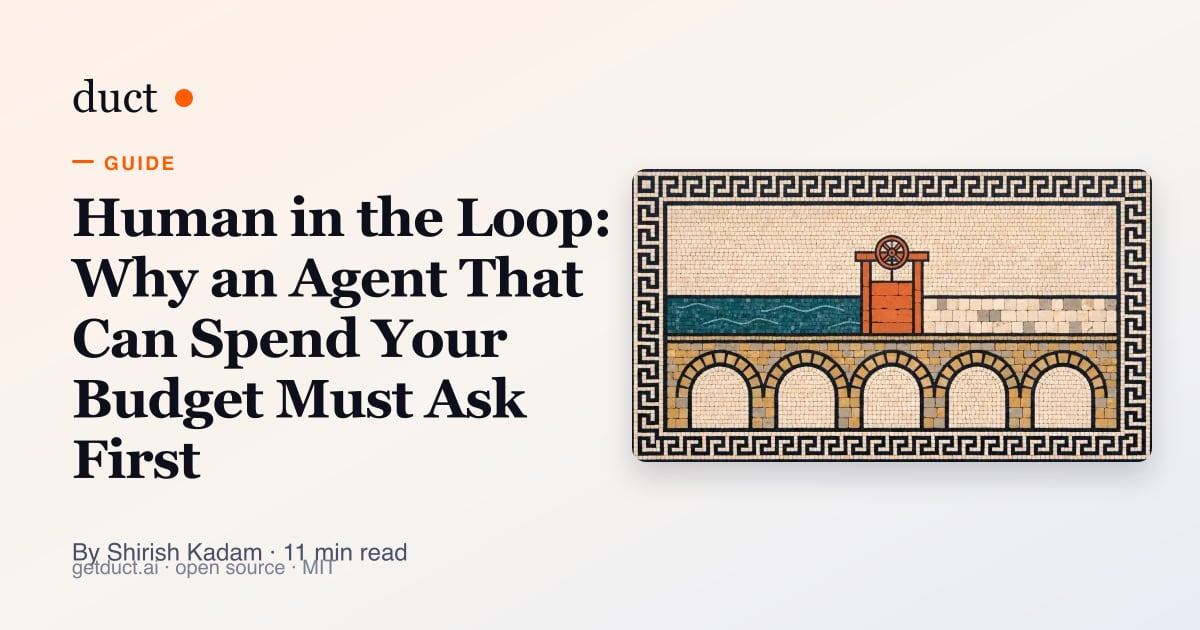
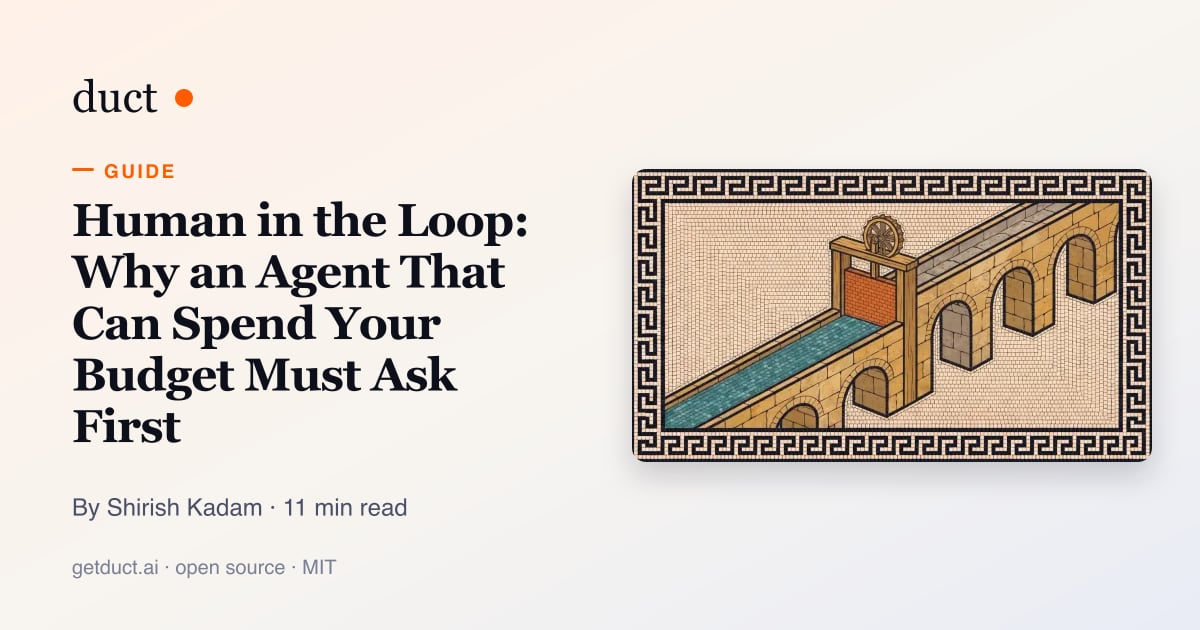
site(blog): guide 2, fixes from the visual pass
From a visual pass over every page, figure, card and hero in the cluster:

- the approval figure laid out again at the 19px label size every other figure uses; the Roll back box and the policy check text no longer run past their boxes
- a new hero that fills the field like the rest of the set (the first left the top 40% as empty ground); the alt text still describes it
- American spelling throughout
- the share card's byline clears the footer (the card generator fix on the base branch)

Refs #431

Changed region(s): [[0.0617, 0.2714, 0.9558, 0.9048], [0.0617, 0.2413, 0.1542, 0.3016]]

diff --git a/site/blog/human-in-the-loop-ai-agents.html b/site/blog/human-in-the-loop-ai-agents.html
@@ -426,7 +426,7 @@
 </nav>
 <h2 id="what-does-human-in-the-loop-mean-for-an-ai-agent">What does human in the loop mean for an AI agent?</h2>
 <p><strong>It means the agent stops at a defined point and a person decides before anything happens.</strong> The decision is a blocking step: the agent proposes, the run pauses, you approve, edit or reject, and only then does the action run. Gumloop's guide puts the everyday version plainly: "agents can pause at important moments and check in with you for approval before taking action" (<a href="https://instacart.gumloop.com/blog/human-in-the-loop">Gumloop, <em>Agents that know when to ask</em></a>).</p>
-<p>Two neighbours of the phrase matter, because vendors blur them:</p>
+<p>Two neighbors of the phrase matter, because vendors blur them:</p>
 <div class="post-table" role="region" aria-label="Table: Pattern, Who acts first, Your role, Fits" tabindex="0">
 <table>
 <thead><tr><th scope="col">Pattern</th><th scope="col">Who acts first</th><th scope="col">Your role</th><th scope="col">Fits</th></tr></thead>
@@ -470,7 +470,7 @@
 <table>
 <thead><tr><th scope="col">How the gate is built</th><th scope="col">What stops a wrong action</th><th scope="col">What happens when the model is wrong about risk</th><th scope="col">Where the human sits</th></tr></thead>
 <tbody>
-<tr><td>Told to ask (a line in the prompt)</td><td>the model's judgement</td><td>the action runs</td><td>in the loop, in theory</td></tr>
+<tr><td>Told to ask (a line in the prompt)</td><td>the model's judgment</td><td>the action runs</td><td>in the loop, in theory</td></tr>
 <tr><td>Cannot act (no tool exists to apply)</td><td>the absence of the tool</td><td>the change sits in "proposed" until a person clicks</td><td>in the loop, by construction</td></tr>
 <tr><td>Acts, then reports</td><td>nothing before the fact</td><td>the action runs; you see it in a log</td><td>on the loop</td></tr>
 </tbody>
@@ -478,7 +478,7 @@
 </div>
 <p>Models are not reliable judges of when to ask. HiL-Bench, built to test exactly this, found that "no frontier model recovers more than a fraction of its full-information performance when deciding whether to ask" (<a href="https://arxiv.org/abs/2604.09408">HiL-Bench, arXiv 2604.09408</a>, April 2026). The first row is the one to be suspicious of, and it is the one most products ship, because it is one sentence of work.</p>
 <p>Duct uses the second row. The agent has four tools for changing things: list the operations it may propose, propose a change set, check a set's status, roll one back. There is no fifth. The docstring of <a href="https://github.com/5hirish/duct/blob/main/backend/agents/tools/execution_tools.py">the tools file</a> says it in one line: "There is no approve or apply tool." The agent can write a paragraph on why the budget should go up. It cannot make the budget go up, because the thing that would do that is not in the list of things it can call.</p>
-<figure class="post-figure" data-zoom><img src="assets/human-in-the-loop-ai-agents/approval-sequence.svg" width="1000" height="560" loading="lazy" decoding="async" alt="A sequence diagram: the agent proposes a change set; a policy in code checks every change; if all are allowlisted and reversible and the project allows it, they apply with an undo; otherwise a person approves, which applies, or rejects, which ends it; applied changes can be rolled back."/><figcaption>The agent's road ends at propose. The orange step is the only place a person decides, and it is the only path to apply for anything that moves money.</figcaption></figure>
+<figure class="post-figure" data-zoom><img src="assets/human-in-the-loop-ai-agents/approval-sequence.svg" width="1000" height="580" loading="lazy" decoding="async" alt="A sequence diagram: the agent proposes a change set; a policy in code checks every change; if all are allowlisted and reversible and the project allows it, they apply with an undo; otherwise a person approves, which applies, or rejects, which ends it; applied changes can be rolled back."/><figcaption>The agent's road ends at propose. The orange step is the only place a person decides, and it is the only path to apply for anything that moves money.</figcaption></figure>
 <p>Whether a proposed set waits for a click or applies on its own is decided in <a href="https://github.com/5hirish/duct/blob/main/backend/service/execution/policy.py">one policy file</a>, once, in rules short enough to read in a minute:</p>
 <ul>
 <li>A change may apply without a click only if it is on a short allowlist, is not flagged destructive, has a rollback, passed the account's guardrails, and its preview succeeded.</li>

diff --git a/site/blog/posts/human-in-the-loop-ai-agents.md b/site/blog/posts/human-in-the-loop-ai-agents.md
@@ -23,7 +23,7 @@ It is easy to get wrong, and I have the receipt. On September 28 I was finishing
 
 **It means the agent stops at a defined point and a person decides before anything happens.** The decision is a blocking step: the agent proposes, the run pauses, you approve, edit or reject, and only then does the action run. Gumloop's guide puts the everyday version plainly: "agents can pause at important moments and check in with you for approval before taking action" ([Gumloop, *Agents that know when to ask*](https://instacart.gumloop.com/blog/human-in-the-loop)).
 
-Two neighbours of the phrase matter, because vendors blur them:
+Two neighbors of the phrase matter, because vendors blur them:
 
 | Pattern | Who acts first | Your role | Fits |
 |---|---|---|---|
@@ -70,7 +70,7 @@ Trust, when it comes, looks like supervising rather than stamping. Anthropic's s
 
 | How the gate is built | What stops a wrong action | What happens when the model is wrong about risk | Where the human sits |
 |---|---|---|---|
-| Told to ask (a line in the prompt) | the model's judgement | the action runs | in the loop, in theory |
+| Told to ask (a line in the prompt) | the model's judgment | the action runs | in the loop, in theory |
 | Cannot act (no tool exists to apply) | the absence of the tool | the change sits in "proposed" until a person clicks | in the loop, by construction |
 | Acts, then reports | nothing before the fact | the action runs; you see it in a log | on the loop |
 
